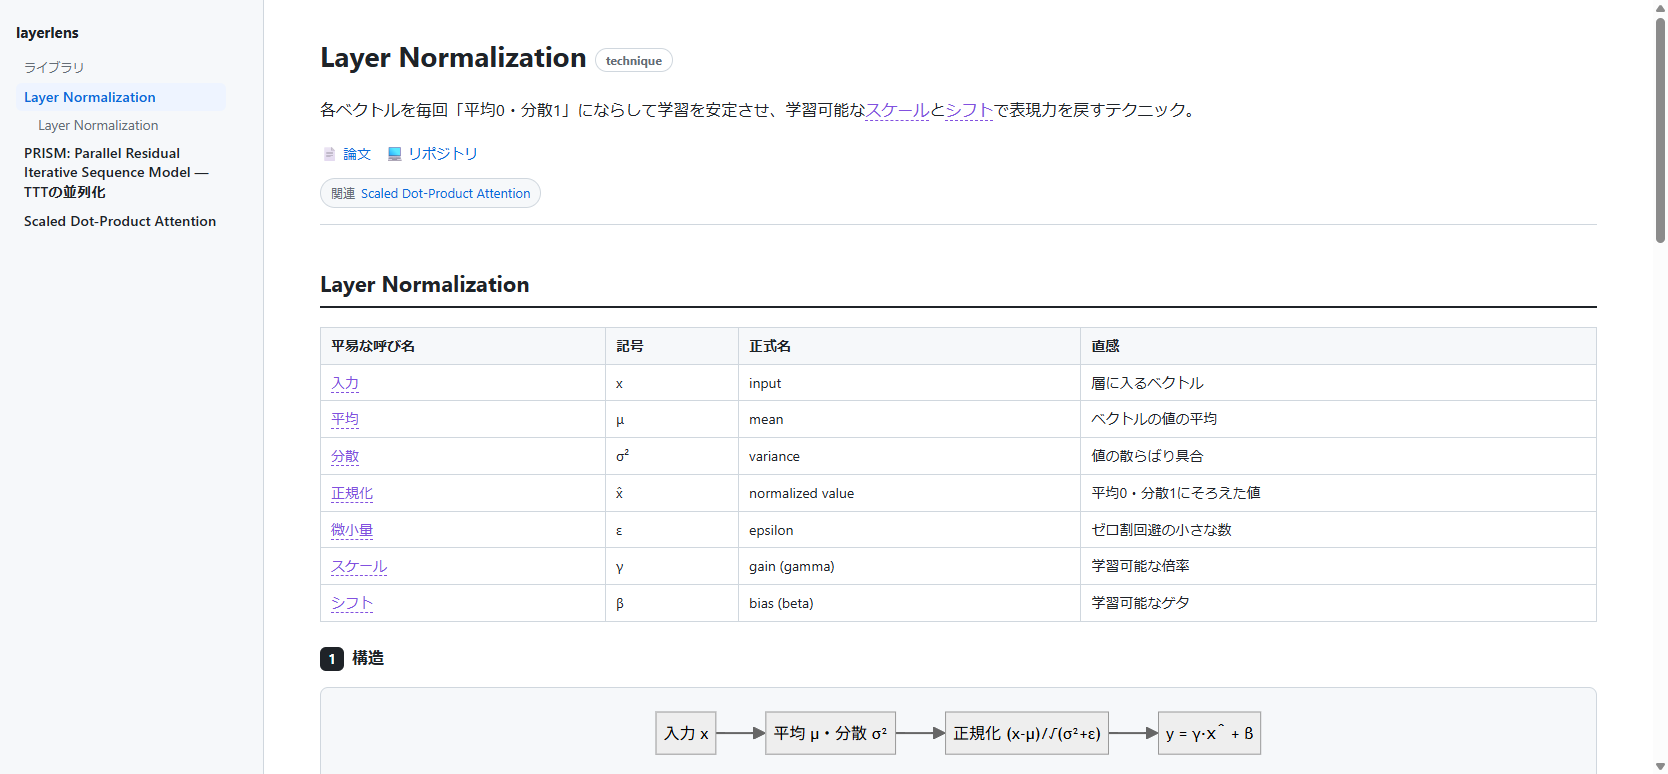
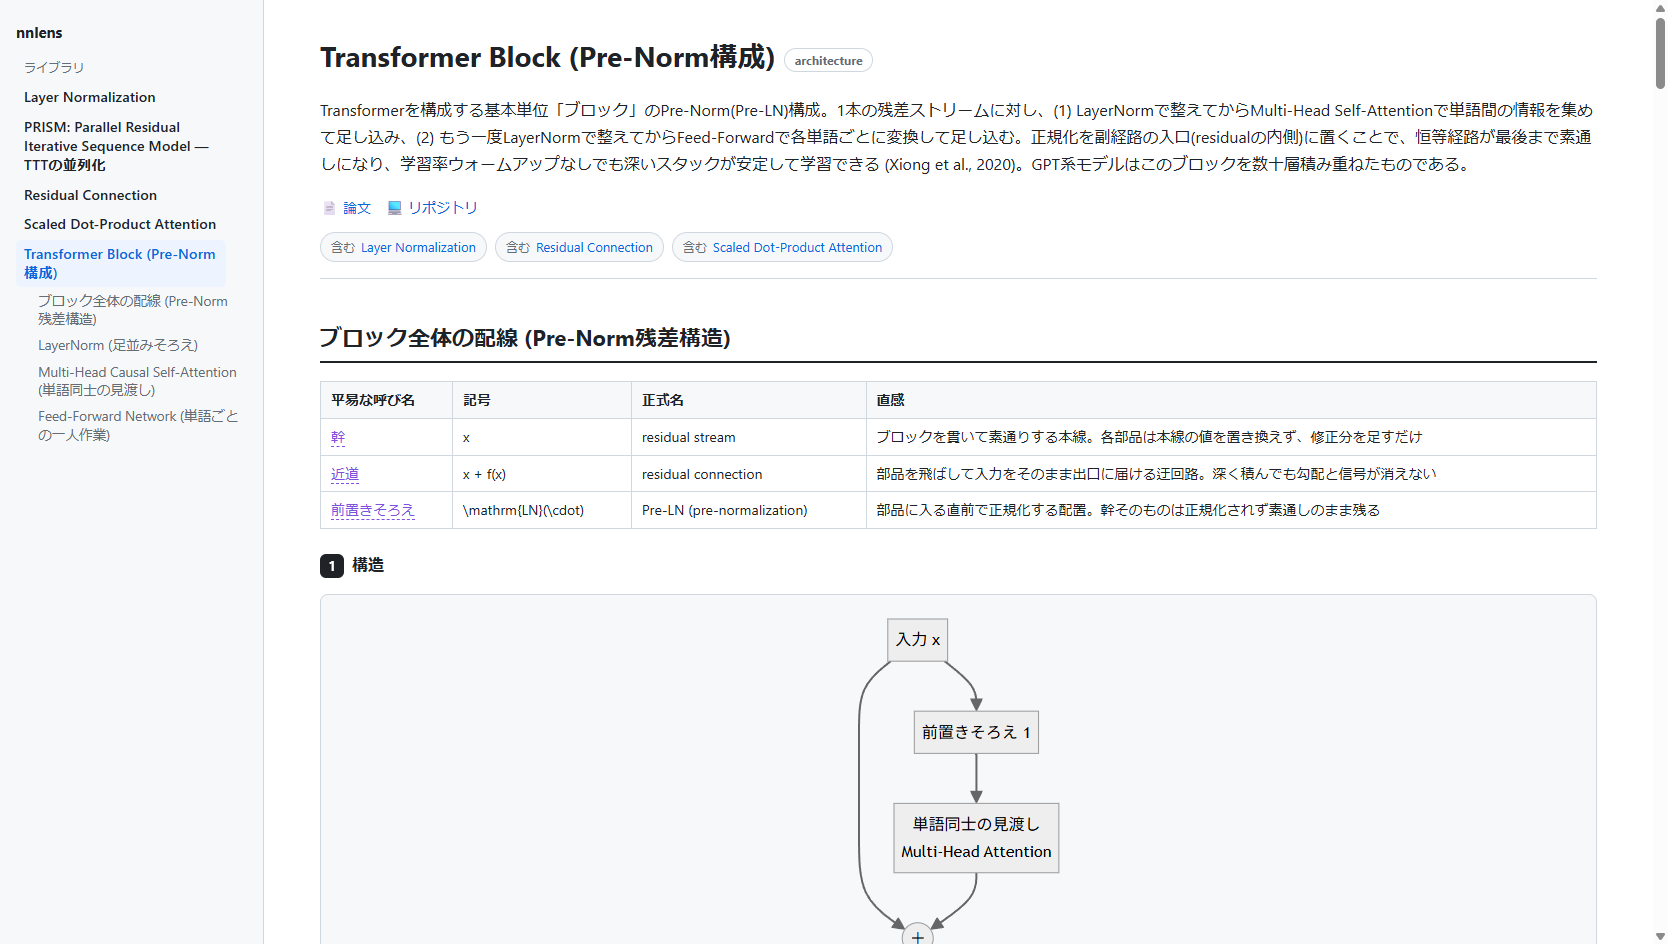
Publish prep: hero screenshot, project URLs

diff --git a/README.md b/README.md
@@ -3,7 +3,7 @@
 **Throw in a paper, a GitHub repo, or just the name of a technique — get back a
 layer-by-layer explanation of a neural network, in five linked views.**
 
-![nnlens rendering Layer Normalization: concept ledger, related-explanation chips, and the structure diagram](docs/img/screenshot.png)
+![nnlens rendering a Transformer block: multi-component sidebar, related-explanation chips, concept ledger, and the structure diagram](docs/img/screenshot.png)
 
 nnlens is an **MCP server + local renderer**. You connect it to an MCP host you
 already use (Claude Desktop, Claude Code, Cursor, …). The host's model — driven by